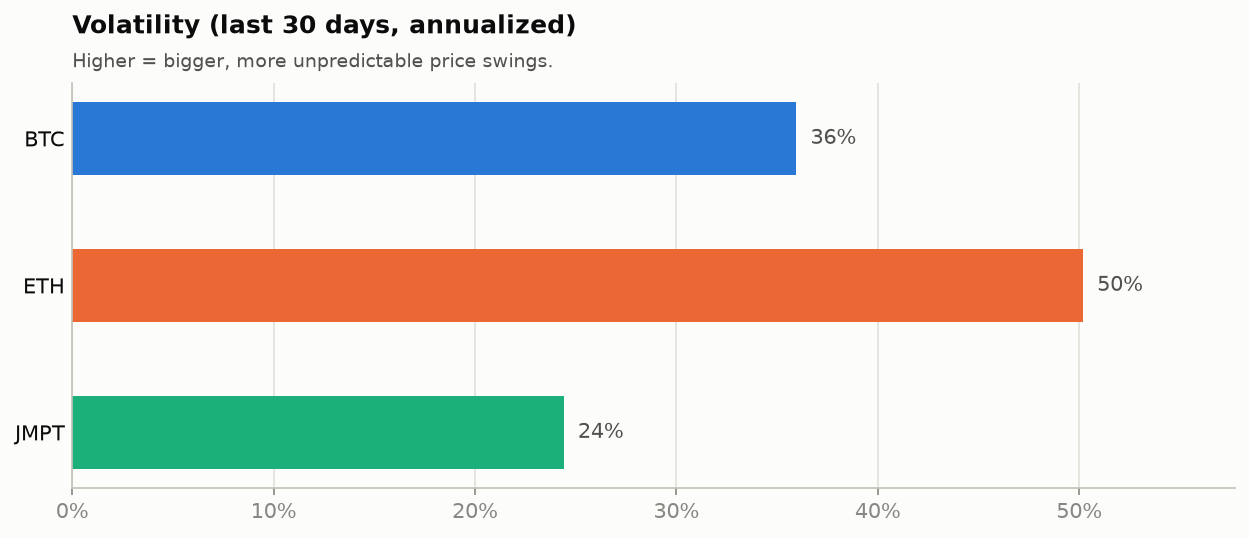
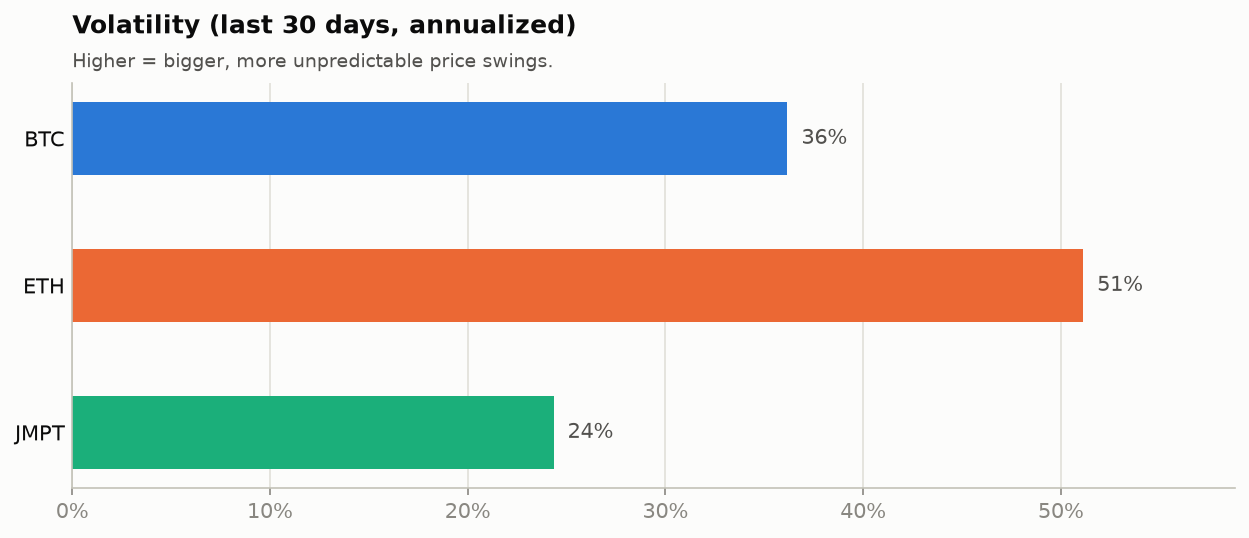
data: market update 2026-11-11

diff --git a/README.md b/README.md
@@ -9,13 +9,13 @@ The project compares two of the largest cryptocurrencies with a small-cap token:
 ## Latest stats
 
 <!-- STATS:START -->
-_Snapshot as of **2026-11-10 00:00 UTC**. Updated automatically every day._
+_Snapshot as of **2026-11-11 00:00 UTC**. Updated automatically every day._
 
 | Coin | Price | 1 day | 7 days | 30 days | 1 year | Volatility (30d) | Market cap |
 |:--|--:|--:|--:|--:|--:|--:|--:|
-| **BTC** Bitcoin | $75,267 | ▲ +0.7% | ▼ -1.9% | ▼ -9.2% | ▼ -28.1% | 36% | $1.51T |
-| **ETH** Ethereum | $2,132 | ▲ +0.4% | ▼ -5.2% | ▼ -14.9% | ▼ -40.4% | 50% | $260.56B |
-| **JMPT** JumpToken | $0.5053 | ▲ +0.3% | ▼ -1.5% | ▼ -8.9% | ▼ -41.9% | 24% | $7.46M |
+| **BTC** Bitcoin | $73,721 | ▼ -2.1% | ▼ -4.7% | ▼ -11.9% | ▼ -30.4% | 36% | $1.48T |
+| **ETH** Ethereum | $2,050 | ▼ -3.8% | ▼ -9.8% | ▼ -19.1% | ▼ -42.5% | 51% | $250.57B |
+| **JMPT** JumpToken | $0.5017 | ▼ -0.7% | ▼ -2.1% | ▼ -9.8% | ▼ -41.3% | 24% | $7.41M |
 <!-- STATS:END -->
 
 ## Charts
